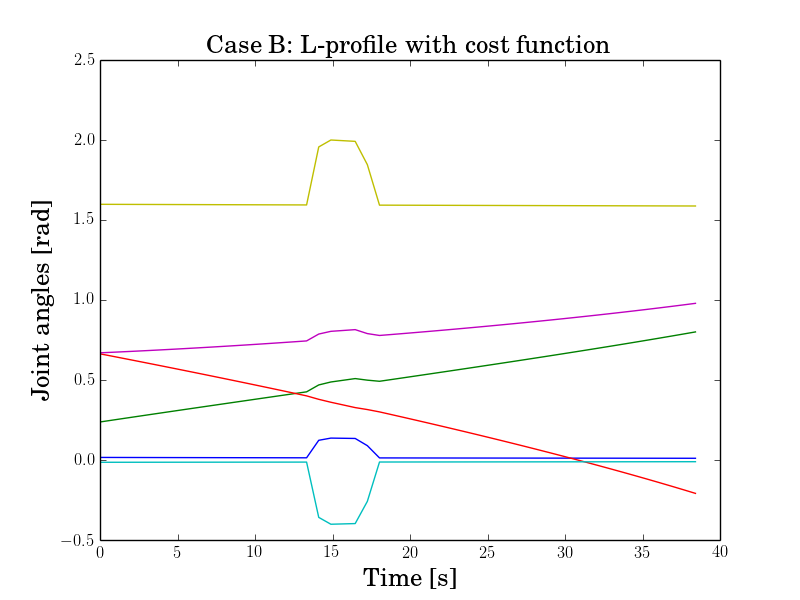
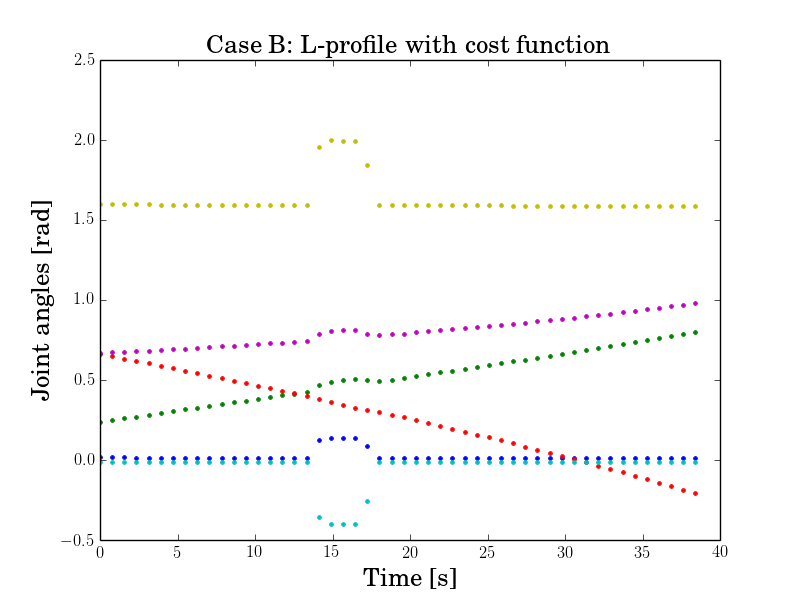
update plots

diff --git a/plots/plotAnglesWithCost.py b/plots/plotAnglesWithCost.py
@@ -60,7 +60,7 @@ plt.figure(figsize=(8, 6))
 #~ 
 #~ plt.subplot(122)
 for i in range(0, 6):
-	plt.plot(tB, jB[i])
+	plt.plot(tB, jB[i], '.')
 plt.title("Case B: L-profile with cost function", fontsize=18)
 plt.xlabel('Time [s]', fontsize=18)
 plt.ylabel('Joint angles [rad]', fontsize=18)
@@ -68,5 +68,5 @@ plt.axis([0, 40, -0.5, 2.5])
 
 #~ plt.legend(['Joint 1', 'Joint 2', 'Joint 3', 'Joint 4', 'Joint 5', 'Joint 6'])
 
-plt.savefig("joint_angles_with_cost.png")
-#~ plt.show()
+#~ plt.savefig("joint_angles_with_cost.png")
+plt.show()

diff --git a/plots/plotAngles.py b/plots/plotAngles.py
@@ -68,5 +68,5 @@ plt.xlabel('Time [s]', fontsize=18)
 # avoid the x-label from being cut off
 plt.gcf().subplots_adjust(bottom=0.15)
 
-plt.savefig("joint_angles_AB2.png")
-#~ plt.show()
+#~ plt.savefig("joint_angles_AB2.png")
+plt.show()
